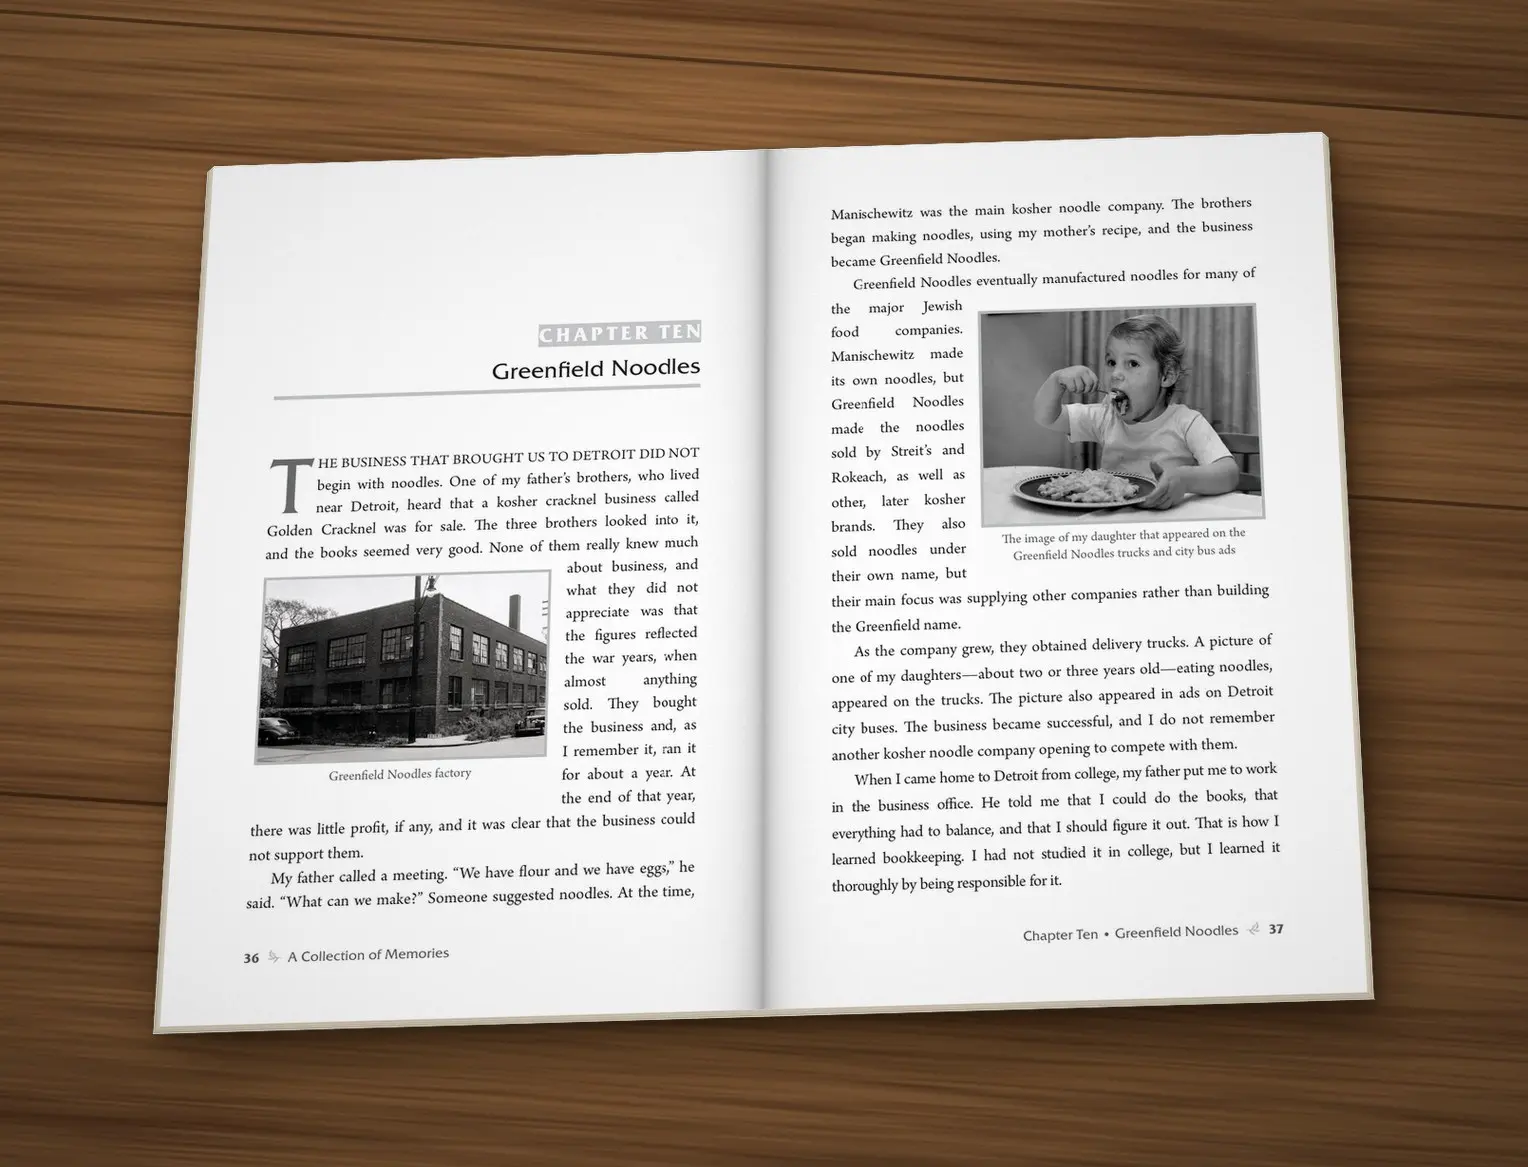
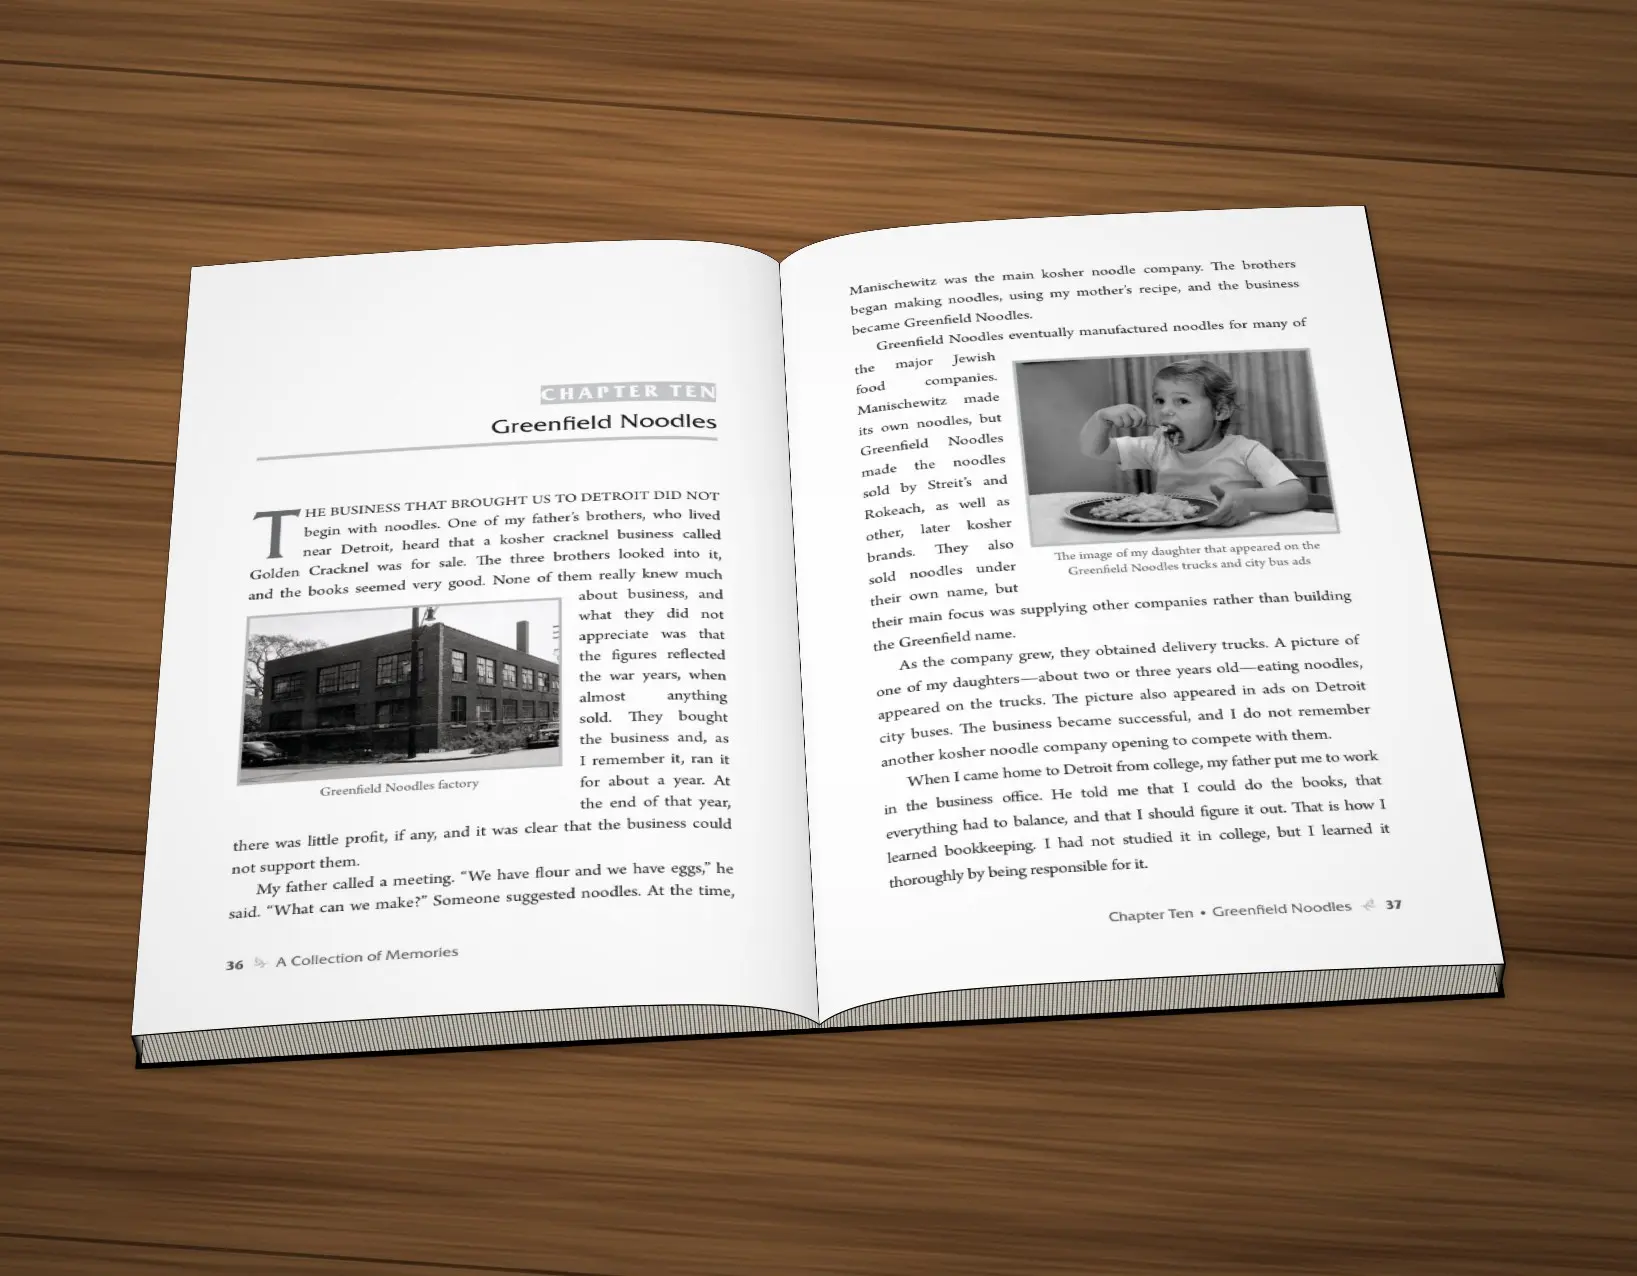
3D open book; hero without shadows; gift before packages; larger Family Legacy title
Claude-Session: https://claude.ai/code/session_01GYZcdU7kqJ5b1Zvsjw12Ux

diff --git a/public/pk-summary.css b/public/pk-summary.css
@@ -8,8 +8,9 @@
 .hp-pk .button { margin-top: auto; }
 .hp-legacy { margin-top: 26px; background: #fff; border: 1px solid var(--line); border-top: 4px solid var(--sage); border-radius: 6px; padding: 30px 34px; display: flex; align-items: center; justify-content: space-between; gap: 24px 40px; flex-wrap: wrap; }
 .hp-legacy > div { flex: 1 1 420px; min-width: 0; }
-.hp-legacy h3 { font-family: var(--tagline); font-size: 30px; line-height: 1.15; color: var(--dark-brown); margin-top: 8px; }
-.hp-legacy p:not(.hp-pk-tier) { margin-top: 8px; font-size: 17px; line-height: 1.55; color: var(--ink); max-width: 640px; }
+.hp-legacy h3 { font-family: var(--tagline); font-size: 36px; line-height: 1.15; color: var(--dark-brown); margin-top: 8px; }
+.hp-legacy .hp-pk-price { margin-top: 6px; font-size: 17px; color: var(--muted); }
+.hp-legacy p:not(.hp-pk-tier):not(.hp-pk-price) { margin-top: 8px; font-size: 17px; line-height: 1.55; color: var(--ink); max-width: 640px; }
 .hp-legacy strong { color: var(--brown); }
 .hp-pk .button, .hp-legacy .button { font-size: 15px; font-weight: 700; padding: 14px 26px; min-height: 52px; background: transparent; color: var(--brown); border: 1px solid var(--brown); text-decoration: none; transition: background-color .2s, color .2s; }
 .hp-pk .button:hover, .hp-legacy .button:hover { background: var(--brown); color: #fff; }

diff --git a/public/home-v2.css b/public/home-v2.css
@@ -90,7 +90,7 @@ body[data-page="home"] .button:focus-visible { outline: 3px solid var(--sage); o
 .hp-link:hover { border-color: var(--brown); }
 
 /* 7 Packages */
-.hp-packages { background: var(--paper); padding: 100px 0; border-top: 1px solid #ece4d6; }
+.hp-packages { background: #f3eee5; padding: 100px 0; }
 .hp-sub { max-width: 720px; margin: 18px auto 0; font-size: 17px; color: var(--muted); }
 /* 8 Final CTA */
 .hp-cta { background: var(--dark-sage); color: #fff; padding: 96px 0; }
